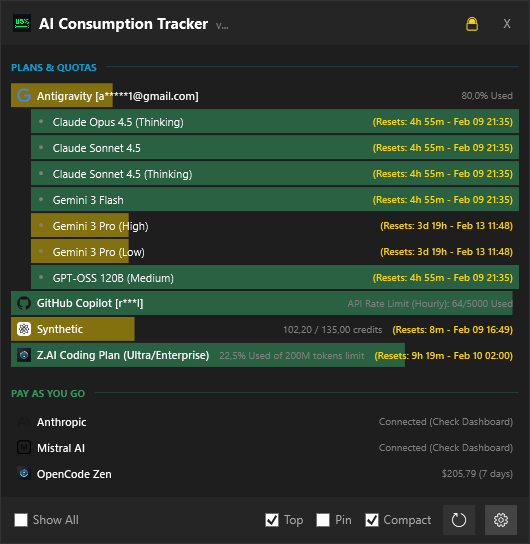
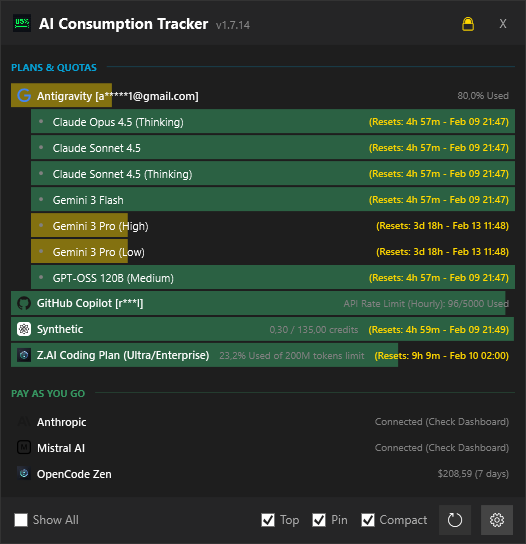
Fix version number display in screenshots - ensure version is set in PrepareForScreenshot

diff --git a/AIConsumptionTracker.UI/MainWindow.xaml.cs b/AIConsumptionTracker.UI/MainWindow.xaml.cs
@@ -168,6 +168,14 @@ namespace AIConsumptionTracker.UI
         {
             SetInitialPreferences(prefs);
             _cachedUsages = usages;
+            
+            // Ensure version is set
+            var version = Assembly.GetEntryAssembly()?.GetName().Version;
+            if (version != null)
+            {
+                VersionText.Text = $"v{version.Major}.{version.Minor}.{version.Build}";
+            }
+            
             RenderUsages(usages);
             UpdateLayout();
             UpdatePrivacyButton();
